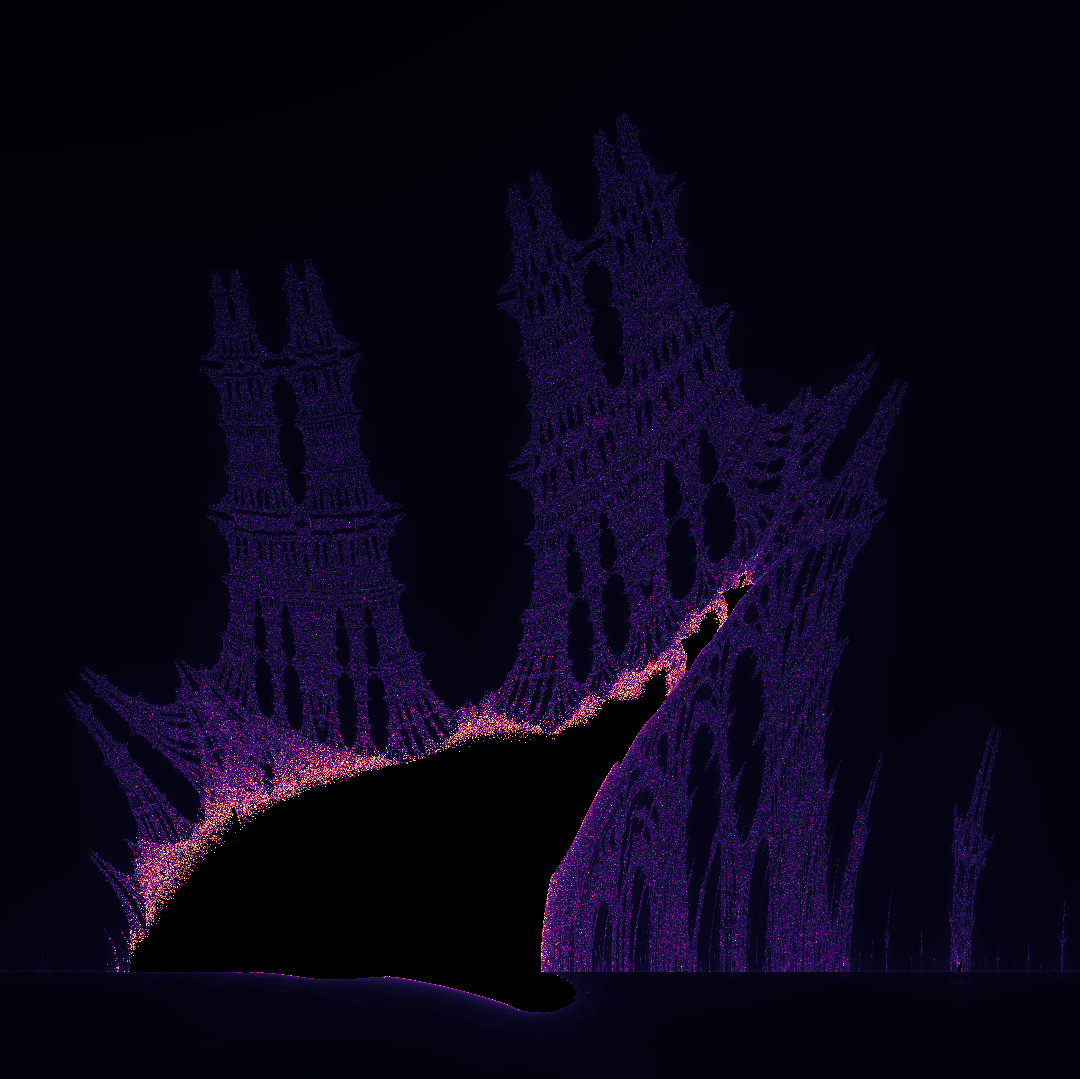
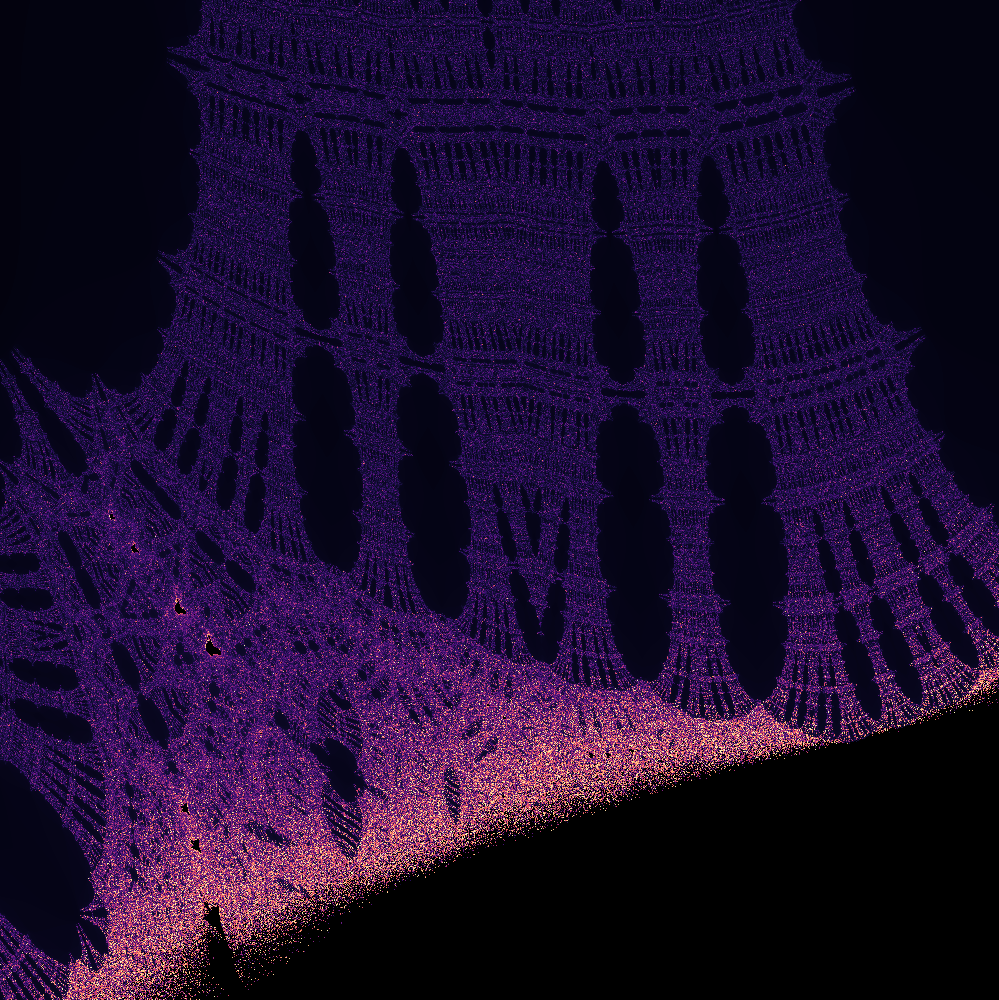
Version 0.3.2
Fixed redundancy with image flipping in kernel. Removed some uneccessary imports

diff --git a/kernels/cuda_mandelbrot.py b/kernels/cuda_mandelbrot.py
@@ -2,7 +2,7 @@ import numpy as np
 from pylab import imshow, show
 from timeit import default_timer as timer
 from numba import cuda
-from numba import uint32, f8, uint8, uint16
+from numba import uint32, f8, uint16
 
 
 @cuda.jit(uint32(f8, f8, uint32), device=True)
@@ -52,7 +52,6 @@ def get_image(coords=(-2.0, 2.0, -2.0, 2.0), max_iters=1500, resolution=1000):
     mandel_kernel[griddim, blockdim](
         min_x, max_x, min_y, max_y, d_image, max_iters)
     d_image.to_host()
-    gimage = np.flipud(gimage)
     return gimage
 
 

diff --git a/plot_fractal.py b/plot_fractal.py
@@ -10,8 +10,7 @@ def render_image(coords=(-2.5, 1.5, -2.0, 2.0), iterations=1500,
                  resolution=1000, savename='fractal', fractal='mandelbrot'):
 
     min_x, max_x, min_y, max_y = coords
-    if fractal != 'mandelbrot':
-        min_y, max_y = -max_y, -min_y
+    min_y, max_y = -max_y, -min_y
     coords = min_x, max_x, min_y, max_y
 
     fractals = {'mandelbrot', 'burningship'}
